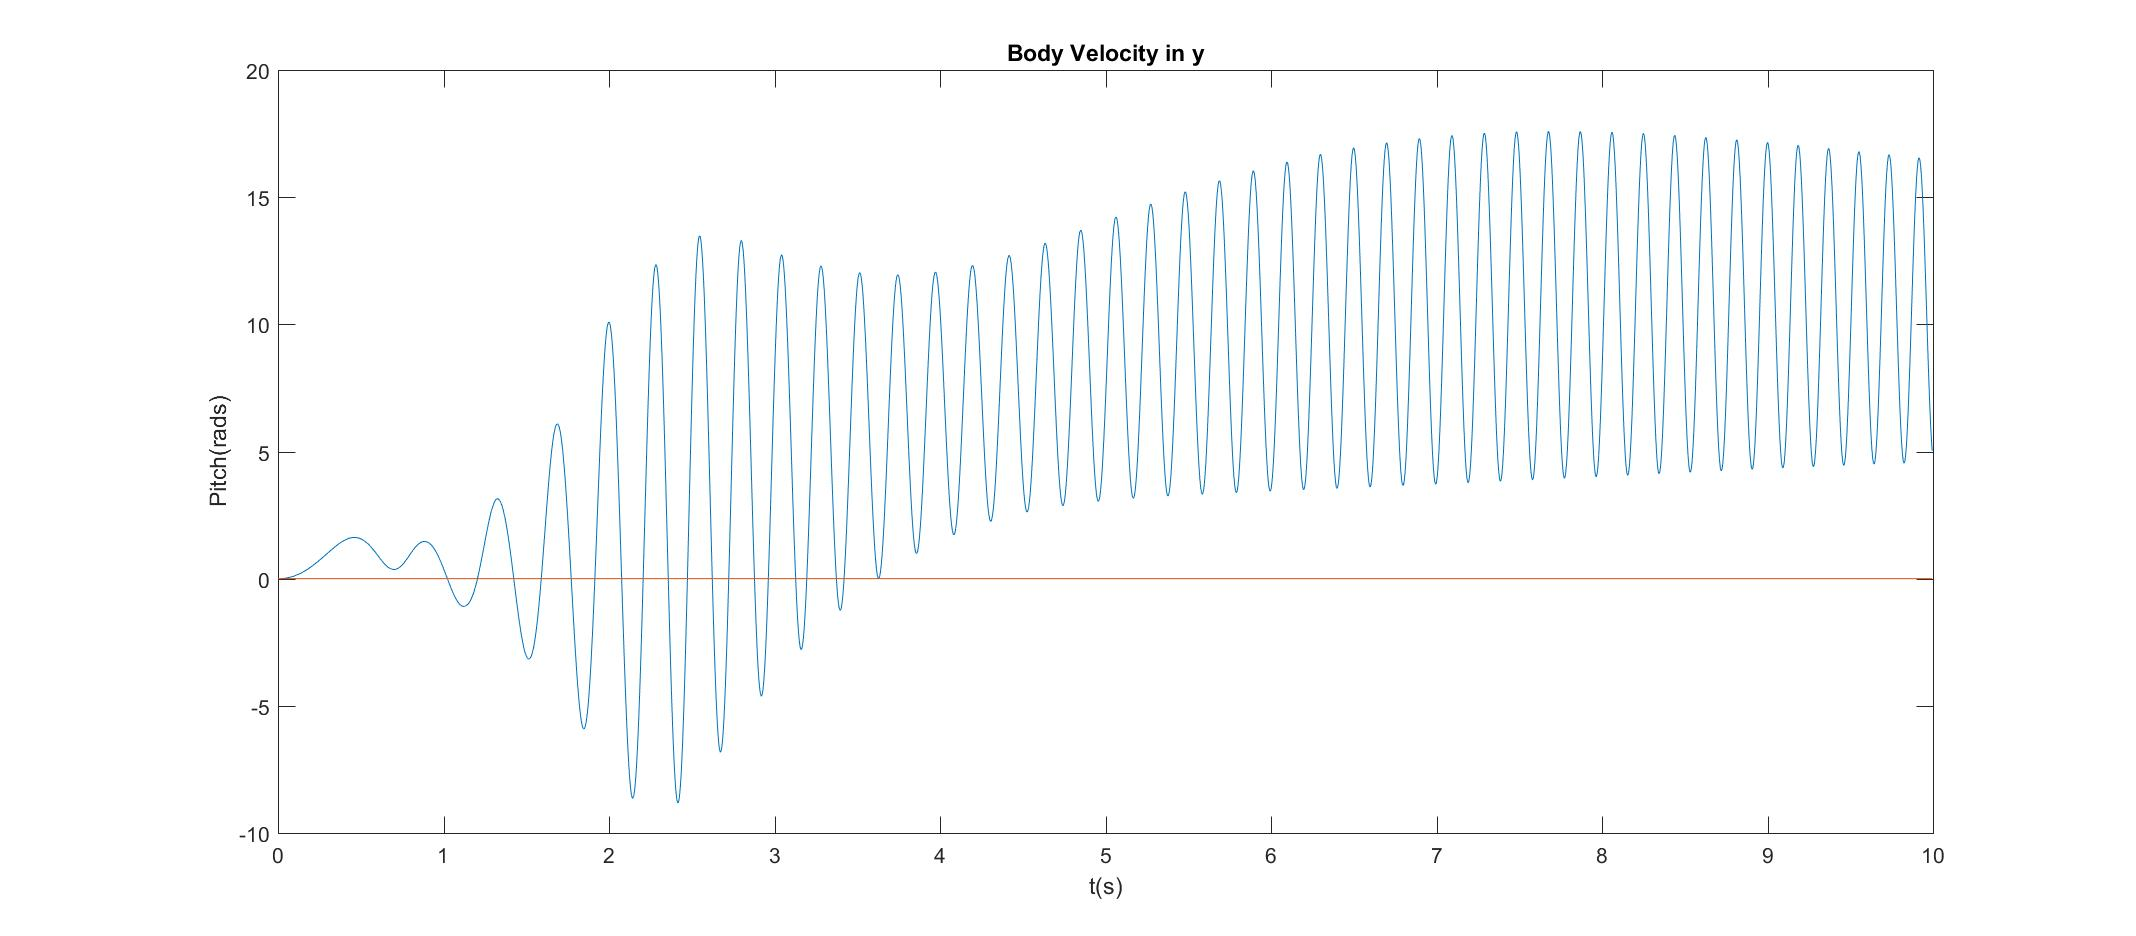
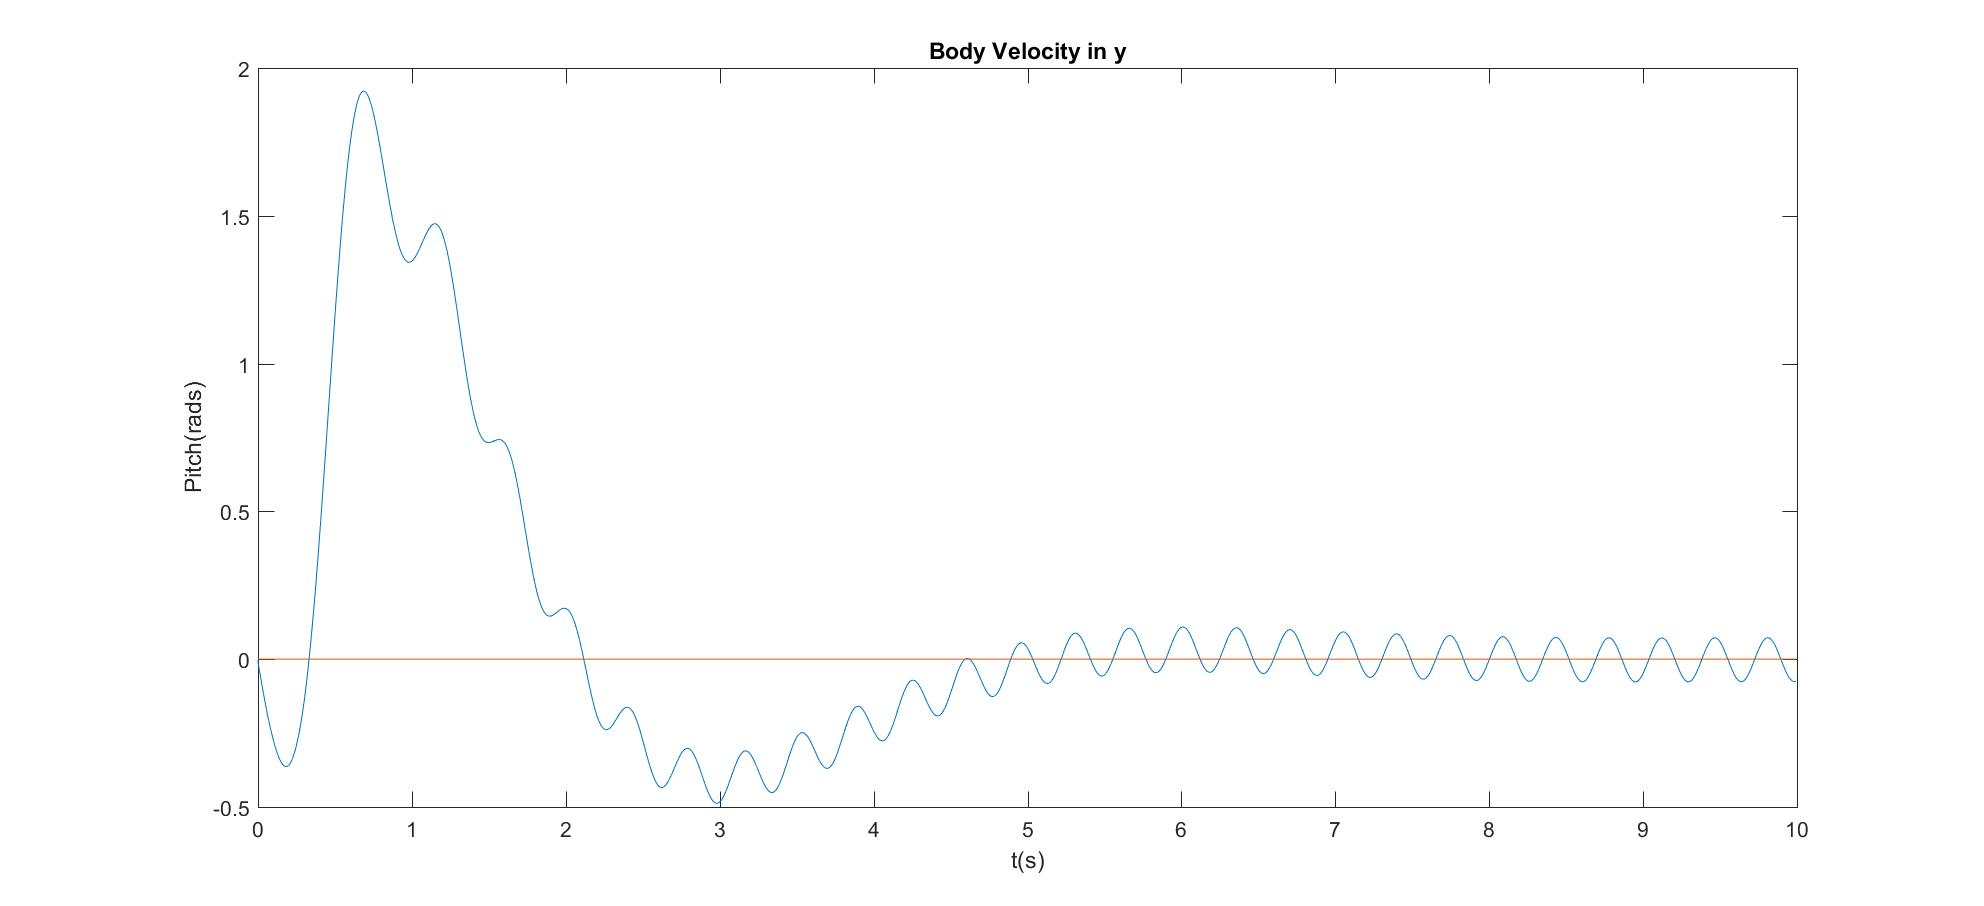
quatorian code fixed, replace fiona quat rate with adrain

diff --git a/wholemain.m b/wholemain.m
@@ -18,22 +18,22 @@ initequil; %%change equil to fit ur new state!!!
   % old state=[ euler angles p q r x y z xdo ydot zdot]
   % new state (u,v,w,p,q,r,X,Y,Z,q0,q1,q2,q3) uvw in body fram
 %     state=[0.133899759 0 0 0 2.4579 18.2494 0 0 5 0 0 0 ]';
- euler=[0.5;0.2;1] %roll pitch yaw xyz                    zyx
+ euler=[0.5;0.5;0.5] %roll pitch yaw xyz                    zyx
 % q0 = angle2quat(-(attEuler(1)+pi),attEuler(2),attEuler(3),'xyz')'
  q0 = angle2quat(euler(3),euler(2),euler(1),'ZYX')
 % rotmat0=quat2rotm(q0)
  state=[0 0 0 0 0 0 0 0 1 q0]';
     f=[1.25 1.25 1.25 0]';
     %desired state (u,v,w,p,q,r,X,Y,Z,q0,q1,q2,q3) uvw in body frame
-    desiredstate=[0 0 0 0 0 0 1 1 1 1 0 0 0]';
+    desiredstate=[0 0 0 0 0 0 1 1 2 1 0 0 0]';
 
 % % 
-%  endTime =10;  % seconds
+ endTime =10;  % seconds
    dt = 1 / 200; % time step (Hz)
   t=0;
 %     
-% Hist = inithist(state,t,f,desiredstate);
-%    W=1;
+Hist = inithist(state,t,f,desiredstate);
+   W=1;
 
         
     %% LQR
@@ -41,21 +41,23 @@ initequil; %%change equil to fit ur new state!!!
     
 %     C=[0 0 0 0];D=[0 0];
 %     P=pole(idss(A-B*K, B,C,D))
-% for i = 0 : dt : endTime - dt
+for i = 0 : dt : endTime - dt
     % Rotational Matrix 
 %     R=[cos(state(2))*cos(state(3)) cos(state(3))*sin(state(2))*sin(state(1))-cos(state(1))*sin(state(3)) cos(state(3))*cos(state(1))*sin(state(2))+sin(state(1))*sin(state(3));
 %     cos(state(2))*sin(state(3)) sin(state(3))*sin(state(2))*sin(state(1))+cos(state(1))*cos(state(3)) sin(state(3))*cos(state(1))*sin(state(2))-sin(state(1))*cos(state(3));
 %     -sin(state(2)) cos(state(2))*sin(state(1)) cos(state(1))*cos(state(2))];
 %% State Initialization
 q = [state(10);state(11);state(12);state(13)]/norm(state(10:13));
-R = quat2rotmat(q) %% from body to inertial
-% rotMat=R' %inertial to body 
-%state = reshape(state,[max(size(state)),1]); %make sure state is column vector
-Vinertial(1:3) = R*state(1:3) %R takes from body to inertial states 1:3 which arein body
-desiredVinertial(1:3) = R*desiredstate(1:3)
+% % Rot = quat2rotmat(q) %% from inertial to body since xyz
+% %  R=inv(Rot)%  body to inertial 
+R=quat2rotmat(q); %% from body to inertial
+state = reshape(state,[max(size(state)),1]); %make sure state is column vector
+% Vinertial(1:3) = R*state(1:3) %R takes from body to inertial states 1:3 which arein body
+% desiredVinertial(1:3) = R*desiredstate(1:3)
 %% Outer position Controller
-    errouter_d =[state(7)-desiredstate(7);state(8)-desiredstate(8);state(9)-desiredstate(9)]
-    errouter_d_dot=[Vinertial(1)-desiredVinertial(1);Vinertial(2)-desiredVinertial(2);Vinertial(3)-desiredVinertial(3)]
+    errouter_d =[state(7)-desiredstate(7);state(8)-desiredstate(8);state(9)-desiredstate(9)];
+     errouter_d_dot=[state(1)-desiredstate(1);state(2)-desiredstate(2);state(3)-desiredstate(3)];
+%     errouter_d_dot=[Vinertial(1)-desiredVinertial(1);Vinertial(2)-desiredVinertial(2);Vinertial(3)-desiredVinertial(3)]
     desired_accl=-2*damping_ratio*nat_freq*errouter_d_dot-(nat_freq)^2*errouter_d 
     
 
@@ -69,19 +71,20 @@ desiredVinertial(1:3) = R*desiredstate(1:3)
    %% Computing desired thrusts 
    % f = fsolve(@(x) forces(x,u,f_total), f);
     f=forces(u,f_total)
-    
+     statederiv=dynamicsysteme(0, state,f,desiredstate)
+%  accelinertialframe=(statederiv(1:3)+cross(state(4:6),state(1:3)))
     % Propagate dynamics.
    options = odeset('RelTol',1e-15); %tolerance   
 [t1ODE,stateODE]= ode45(@(t1ODE,stateODE) dynamicsysteme(t1ODE, stateODE, f,desiredstate),[i i+dt],state,options);
 state=stateODE(end,:)'
-   
+
     q = [state(10);state(11);state(12);state(13)]/norm(state(10:13));
 
     R = quat2rotmat(q)
-     statederiv=dynamicsysteme(0, state,f,desiredstate)
-accelinertialframe=R*(statederiv(1:3)+cross(state(4:6),state(1:3)))
+%      statederiv=dynamicsysteme(0, state,f,desiredstate)
+% accelinertialframe=R*(statederiv(1:3)+cross(state(4:6),state(1:3)))
 
-% t = t1ODE(end,:)- dt;
+t = t1ODE(end,:)- dt;
  
 
 
@@ -89,145 +92,145 @@ accelinertialframe=R*(statederiv(1:3)+cross(state(4:6),state(1:3)))
 %  eulerang=[r1 r2 r3]
 %    euler=[eulerang(3) eulerang(2)  eulerang(1)]
 
-%    Hist = updatehist(Hist, t, state, f);
+   Hist = updatehist(Hist, t, state, f);
    
-%     W=W+1
+    W=W+1
    
-% end
+end
 % % %%
 
-% %%
-% set(0,'DefaultFigureWindowStyle','docked')
-% figure(1)
-%     plot(Hist.times,Hist.states(1,:)); hold on
-% 
-%       plot(Hist.times,desiredstate(1)*ones(size(Hist.times)));
-% %      plot([0 10],[0.133899759 0.133899759]);
-%   title('Body Velocity in X')
-%   xlabel('t(s)')
-%  ylabel('m/s')
-%     saveas(figure (1),'state1.jpg')
-% %%
-% figure(2)
-%     plot(Hist.times,Hist.states(2,:)); hold on
-% 
-%       plot(Hist.times,0*ones(size(Hist.times)));
-%     title('Body Velocity in y')
-%     xlabel('t(s)')
-%     ylabel('Pitch(rads)')
-%     saveas(figure (2),'state2.jpg')
-% figure(3)
-%     plot(Hist.times,Hist.states(3,:))
-%     title('Body Velocity in Z') 
-%     xlabel('t(s)')
-%     ylabel('Yaw(rads)')
-%     saveas(figure (3),'state3.jpg')
-%     
-% figure(4)
-%     plot(Hist.times,Hist.states(4,:)); hold on
-%       plot(Hist.times,wbbar(1)*ones(size(Hist.times)));
-%     title('Roll rate vs time (rads/s vs secs)')
-%     xlabel('t(s)')
-%     ylabel('p (rads/s)')
-%     saveas(figure (4),'state4.jpg')
-%     
-% figure(5)
-%     plot(Hist.times,Hist.states(5,:));
-%     hold on
-%     plot(Hist.times,wbbar(2)*ones(size(Hist.times)));
-%     title('pitch rate vs time (rads/s vs secs)')
-%     xlabel('t(s)')
-%     ylabel('q (rads/s)')
-%     saveas(figure (5),'state5.jpg')
-%   
-% figure(6)
-%     plot(Hist.times,Hist.states(6,:));
-%     hold on
-%     plot(Hist.times,wbbar(3)*ones(size(Hist.times)));
-%     title('Yaw rate vs time (rads/s vs secs)')
-%     xlabel('t(s)')
-%     ylabel('r (rads/s)')
-%    saveas(figure (6),'state6.jpg')
-% figure(7)
-%     plot(Hist.times,Hist.states(7,:));
-%     hold on
-%     plot(Hist.times,desiredstate(7)*ones(size(Hist.times)));
-%     title('x position vs time (m vs secs)')
-%     xlabel('t(s)')
-%     ylabel('x (m)')
-%   saveas(figure (7),'state7.jpg')
-% figure(8)
-%     plot(Hist.times,Hist.states(8,:));
-%     hold on
-%     plot(Hist.times,desiredstate(8)*ones(size(Hist.times)));
-%     title('y position vs time (m vs secs')
-%     xlabel('t(s)')
-%     ylabel('y(m)')
-%  saveas(figure (8),'state8.jpg')
-% figure(9)
-%     plot(Hist.times,Hist.states(9,:));
-%     hold on
-%     plot(Hist.times,desiredstate(9)*ones(size(Hist.times)));
-%     title('z position vs time (m vs secs')
-%     xlabel('t(s)')
-%     ylabel('z(m)')
-%    saveas(figure (9),'state9.jpg')
-% 
-% % figure(10)
-% %     plot(Hist.times,Hist.states(10,:));
-% %     hold on
-% %     plot(Hist.times,0*ones(size(Hist.times)));
-% %     title('x rate vs time (m/s vs secs)')
-% %     xlabel('t(s)')
-% %     ylabel('x dot (m/s)')
-% %     saveas(figure (10),'state10.jpg')
-% % figure(11)
-% %     plot(Hist.times,Hist.states(11,:));
-% %     hold on
-% %     plot(Hist.times,0*ones(size(Hist.times)));
-% %     title('y  rate vs time (m/s vs secs)')
-% %     xlabel('t(s)')
-% %     ylabel('y dot (m/s)')
-% %     saveas(figure (11),'state11.jpg')
-% % figure(12)
-% %     plot(Hist.times,Hist.states(12,:));
-% %     hold on
-% %     plot(Hist.times,0*ones(size(Hist.times)));
-% %     title('z rate vs time (m/s vs secs)')
-% %     xlabel('t(s)')
-% %     ylabel('z dot (m/s)')
-% %    saveas(figure (12),'state12.jpg')
-% 
+%%
+set(0,'DefaultFigureWindowStyle','docked')
+figure(1)
+    plot(Hist.times,Hist.states(1,:)); hold on
+
+      plot(Hist.times,desiredstate(1)*ones(size(Hist.times)));
+%      plot([0 10],[0.133899759 0.133899759]);
+  title('Body Velocity in X')
+  xlabel('t(s)')
+ ylabel('m/s')
+    saveas(figure (1),'state1.jpg')
+%%
+figure(2)
+    plot(Hist.times,Hist.states(2,:)); hold on
+
+      plot(Hist.times,0*ones(size(Hist.times)));
+    title('Body Velocity in y')
+    xlabel('t(s)')
+    ylabel('Pitch(rads)')
+    saveas(figure (2),'state2.jpg')
+figure(3)
+    plot(Hist.times,Hist.states(3,:))
+    title('Body Velocity in Z') 
+    xlabel('t(s)')
+    ylabel('Yaw(rads)')
+    saveas(figure (3),'state3.jpg')
+    
+figure(4)
+    plot(Hist.times,Hist.states(4,:)); hold on
+      plot(Hist.times,wbbar(1)*ones(size(Hist.times)));
+    title('Roll rate vs time (rads/s vs secs)')
+    xlabel('t(s)')
+    ylabel('p (rads/s)')
+    saveas(figure (4),'state4.jpg')
+    
+figure(5)
+    plot(Hist.times,Hist.states(5,:));
+    hold on
+    plot(Hist.times,wbbar(2)*ones(size(Hist.times)));
+    title('pitch rate vs time (rads/s vs secs)')
+    xlabel('t(s)')
+    ylabel('q (rads/s)')
+    saveas(figure (5),'state5.jpg')
+  
+figure(6)
+    plot(Hist.times,Hist.states(6,:));
+    hold on
+    plot(Hist.times,wbbar(3)*ones(size(Hist.times)));
+    title('Yaw rate vs time (rads/s vs secs)')
+    xlabel('t(s)')
+    ylabel('r (rads/s)')
+   saveas(figure (6),'state6.jpg')
+figure(7)
+    plot(Hist.times,Hist.states(7,:));
+    hold on
+    plot(Hist.times,desiredstate(7)*ones(size(Hist.times)));
+    title('x position vs time (m vs secs)')
+    xlabel('t(s)')
+    ylabel('x (m)')
+  saveas(figure (7),'state7.jpg')
+figure(8)
+    plot(Hist.times,Hist.states(8,:));
+    hold on
+    plot(Hist.times,desiredstate(8)*ones(size(Hist.times)));
+    title('y position vs time (m vs secs')
+    xlabel('t(s)')
+    ylabel('y(m)')
+ saveas(figure (8),'state8.jpg')
+figure(9)
+    plot(Hist.times,Hist.states(9,:));
+    hold on
+    plot(Hist.times,desiredstate(9)*ones(size(Hist.times)));
+    title('z position vs time (m vs secs')
+    xlabel('t(s)')
+    ylabel('z(m)')
+   saveas(figure (9),'state9.jpg')
+% % 
 % figure(10)
-%   plot(Hist.times,Hist.f(1,:));hold on;
-%   plot(Hist.times,Hist.f(3,:));hold on;
-%   plot(Hist.times,Hist.f(2,:));
-% 
-%   xlabel('t(s)')
-%   ylabel('fi(N)')
-%   title('4 propeller forces vs time ')
-%   saveas(figure (10),'Propellers.jpg')
-% %%
+%     plot(Hist.times,Hist.states(10,:));
+%     hold on
+%     plot(Hist.times,0*ones(size(Hist.times)));
+%     title('x rate vs time (m/s vs secs)')
+%     xlabel('t(s)')
+%     ylabel('x dot (m/s)')
+%     saveas(figure (10),'state10.jpg')
 % figure(11)
-%     plot(Hist.times,Hist.states(4,:)); hold on
-%     plot(Hist.times,Hist.states(5,:)); hold on
-%     plot(Hist.times,Hist.states(6,:));
-% 
-%     title('omega (pqr) vs time (rads/s vs secs)')
+%     plot(Hist.times,Hist.states(11,:));
+%     hold on
+%     plot(Hist.times,0*ones(size(Hist.times)));
+%     title('y  rate vs time (m/s vs secs)')
 %     xlabel('t(s)')
-%     ylabel('r (rads/s)')
-%    saveas(figure (11),'pqr.jpg')
-%    
-%  figure(12)
-%     plot(Hist.times,Hist.states(10,:)); hold on
-%     plot(Hist.times,Hist.states(11,:)); hold on
-%     plot(Hist.times,Hist.states(12,:));hold on
-%     plot(Hist.times,Hist.states(13,:));
-% 
-%     title('quaterions vs time (rads/s vs secs)')
+%     ylabel('y dot (m/s)')
+%     saveas(figure (11),'state11.jpg')
+% figure(12)
+%     plot(Hist.times,Hist.states(12,:));
+%     hold on
+%     plot(Hist.times,0*ones(size(Hist.times)));
+%     title('z rate vs time (m/s vs secs)')
 %     xlabel('t(s)')
-%     ylabel('q')
-%    saveas(figure (12),'quaterion.jpg')
-%  
+%     ylabel('z dot (m/s)')
+%    saveas(figure (12),'state12.jpg')
+
+figure(10)
+  plot(Hist.times,Hist.f(1,:));hold on;
+  plot(Hist.times,Hist.f(3,:));hold on;
+  plot(Hist.times,Hist.f(2,:));
+
+  xlabel('t(s)')
+  ylabel('fi(N)')
+  title('4 propeller forces vs time ')
+  saveas(figure (10),'Propellers.jpg')
+%%
+figure(11)
+    plot(Hist.times,Hist.states(4,:)); hold on
+    plot(Hist.times,Hist.states(5,:)); hold on
+    plot(Hist.times,Hist.states(6,:));
+
+    title('omega (pqr) vs time (rads/s vs secs)')
+    xlabel('t(s)')
+    ylabel('r (rads/s)')
+   saveas(figure (11),'pqr.jpg')
+   
+ figure(12)
+    plot(Hist.times,Hist.states(10,:)); hold on
+    plot(Hist.times,Hist.states(11,:)); hold on
+    plot(Hist.times,Hist.states(12,:));hold on
+    plot(Hist.times,Hist.states(13,:));
+
+    title('quaterions vs time (rads/s vs secs)')
+    xlabel('t(s)')
+    ylabel('q')
+   saveas(figure (12),'quaterion.jpg')
+ 
  %% Visualize simulation.
 %simvisualization(Hist.times, Hist.states, 'V1');

diff --git a/dynamicsysteme.m b/dynamicsysteme.m
@@ -35,18 +35,22 @@ for j=1:3
 end
 w(4)=0;
 f(4)=0;
-fGravity = R'*[0; 0; -m*g];                 % force of gravity, inertial fram
-fThrust = [0; 0; Kf*sum(w.^2)];   % force of thrust, expressed in inertial frame
+% fGravity = inv(R)*[0; 0; -m*g];                 % force of gravity, inertial fram
+% fThrust = [0; 0; Kf*sum(w.^2)];   % force of thrust, expressed in inertial frame
+fThrust = R*[0; 0; Kf*sum(w.^2)];
 
-stateDeriv(1:3) = (fGravity  +fThrust - m*cross(state(4:6),state(1:3)))/m;
+fGravity = [0; 0; -m*g];   
+% stateDeriv(1:3) = (fGravity  +fThrust - m*cross(state(4:6),state(1:3)))/m;
+stateDeriv(1:3) = (fGravity  +fThrust)/m;
 stateDeriv(4)=(1/IB(1,1))*((f(2))*l-state(5)*state(6)*(IT(3,3)-IT(1,1))-Izzp*state(5)*(sqrt(abs(f(1))/Kf) +sqrt(abs(f(2))/Kf) +sqrt(abs(f(3))/Kf)+ sqrt(abs(f(4))/Kf) ));
 stateDeriv(5)=(1/IB(1,1))*((f(3)-f(1))*l+state(4)*state(6)*(IT(3,3)-IT(1,1))+Izzp*state(4)*(sqrt(abs(f(1))/Kf) +sqrt(abs(f(2))/Kf) +sqrt(abs(f(3))/Kf)+ sqrt(abs(f(4))/Kf)));
 stateDeriv(6)=(1/IB(3,3))*(-Dt*state(6)+Kt*(f(1)-f(2)+f(3)-f(4)));
 
 % stateDeriv(8)=state(11);
 % stateDeriv(9)=state(12);
-stateDeriv(7:9)=R*state(1:3);
-stateDeriv(10:13) = -0.5*quatmultiply([0;state(4:6)],q);
+stateDeriv(7:9)=state(1:3);
+% stateDeriv(10:13) = -0.5*quatmultiply([0;state(4:6)],q);
+stateDeriv(10:13) = 0.5*quatmultiply(q,[0;state(4:6)]);
 
 % stateDeriv(10)=((cos(state(1))*cos(state(3))*sin(state(2))+sin(state(1))*sin(state(3)))/m)*(f(1)+f(2)+f(3)+f(4));
 % stateDeriv(11)=((cos(state(1))*sin(state(3))*sin(state(2))-sin(state(1))*cos(state(3)))/m)*(f(1)+f(2)+f(3)+f(4));
